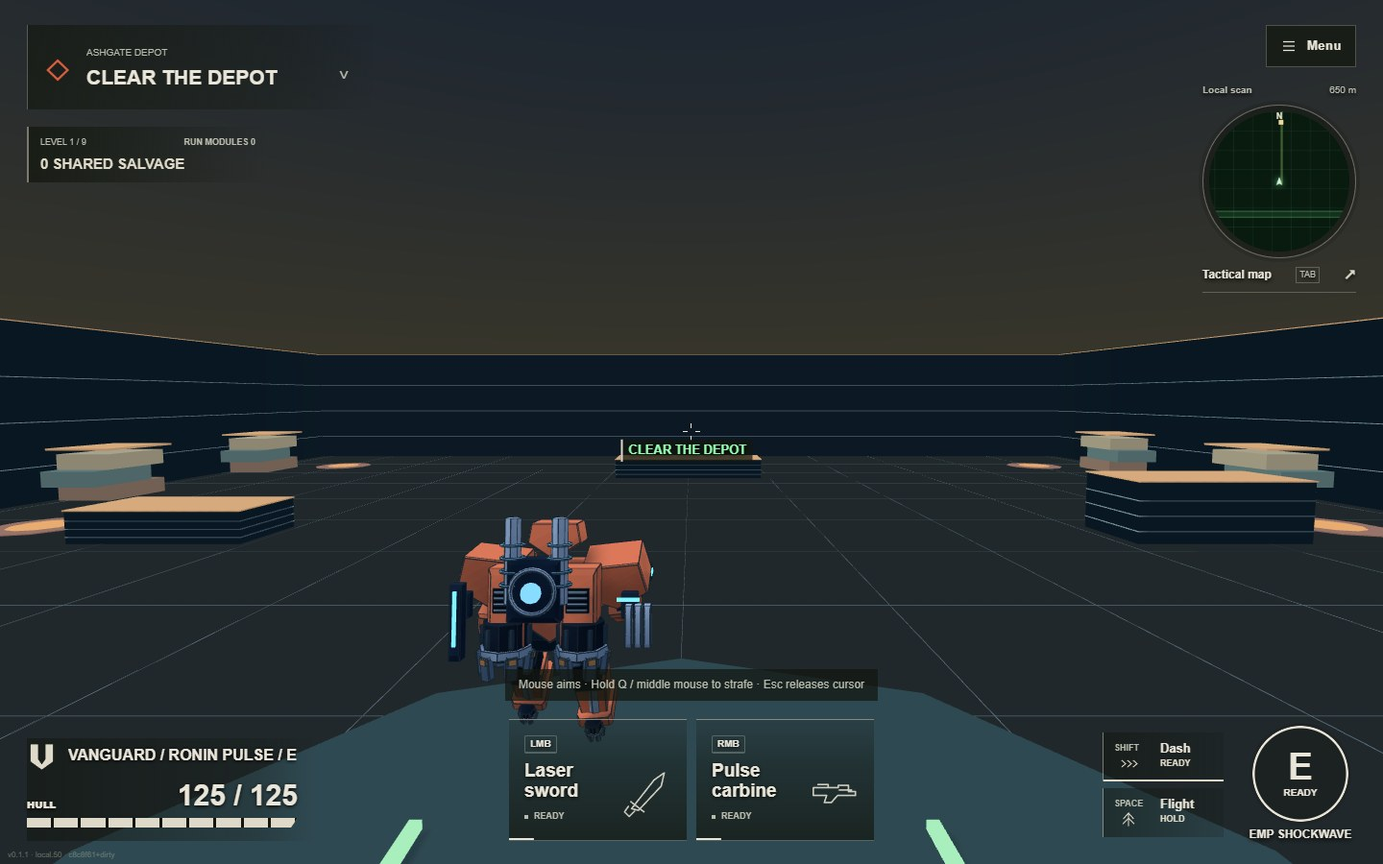
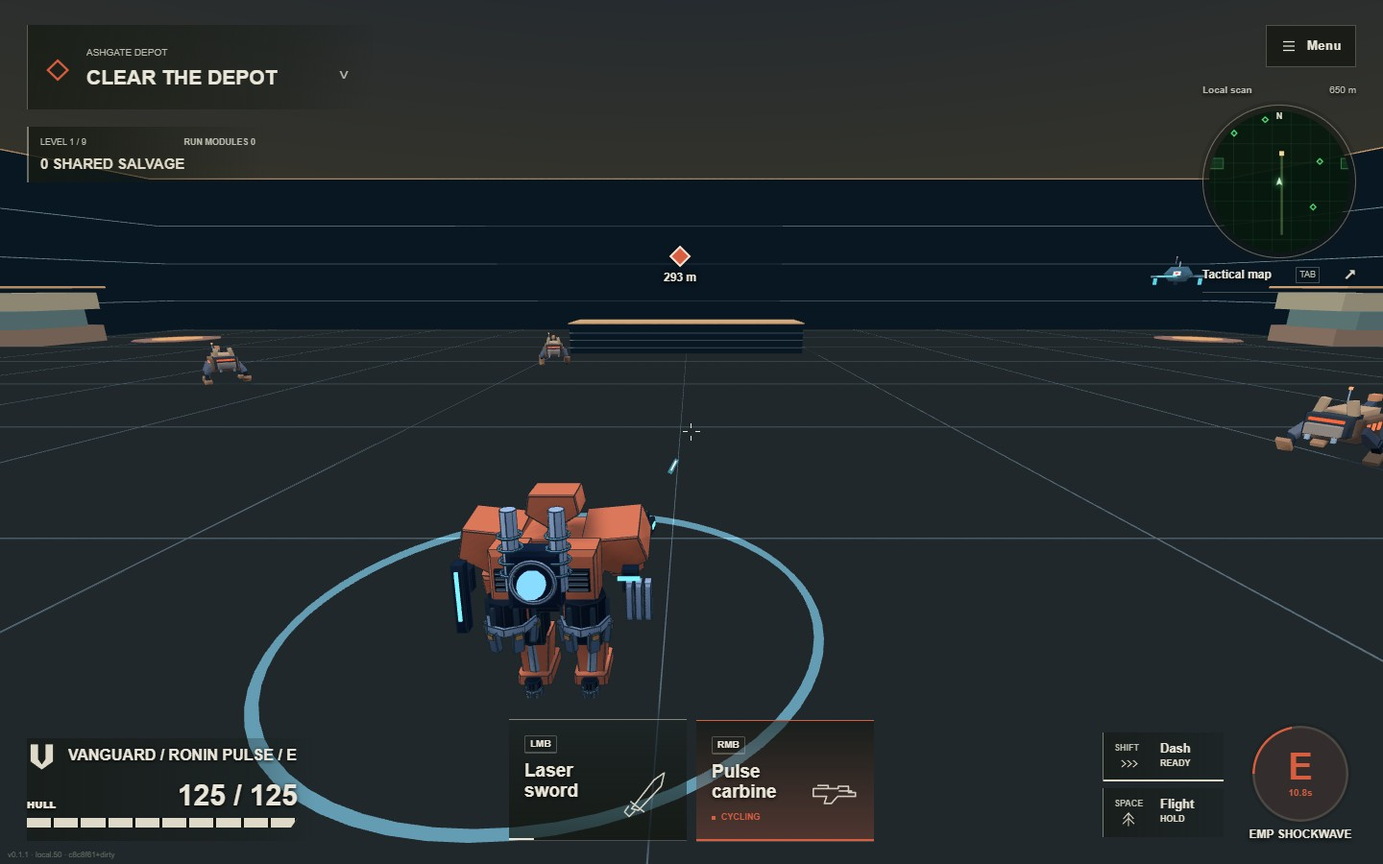
Reduce repeated mission details and clarify combat overlays

diff --git a/dist/app.js b/dist/app.js
@@ -187,9 +187,9 @@ function updateMotionReticle(p){
  $('#motionChargeHint').textContent=ready?'DYNAMO':hands.some(h=>h.motionCharge<1)?'MOVE TO RECHARGE':'RECOVERING';
  panel.setAttribute('aria-label',hands.map(h=>(h.index?'Right':'Left')+' Dynamo charge '+Math.round(h.motionCharge*100)+' percent').join('. '));
 }
-let hudAt=0;function updateHud(){destructionLab.update(world);const p=world.players.find(p=>p.id===localId);if(!p)return;sortieHud.update(world,p);$('#game').classList.toggle('boosting',!!p.boosting);$('#flightButton').classList.toggle('engaged',!!p.airborne);const task=taskStatus(world,p,view.yaw),objectives=objectiveStatus(world,p);const repeatedNotice=!!task.notice&&task.label.toLowerCase().includes(objectives.personal.toLowerCase());$('#taskBanner').hidden=!task.warning&&(!task.notice||repeatedNotice);$('#objectivesPanel').classList.toggle('objectives-duplicate',objectives.personal.trim().toLowerCase()===objectives.team.trim().toLowerCase());for(const[id,key]of[['personalObjective','personal'],['personalObjectiveDetail','personalDetail'],['teamObjective','team'],['teamObjectiveDetail','teamDetail']]){if($('#'+id).textContent!==objectives[key])$('#'+id).textContent=objectives[key];}$('#objectiveMode').textContent=world.mission.mode==='sandbox'?'TEST BAY':world.mission.mode==='trial'?'COMBAT TRIAL':world.operation?world.mission.name:world.siege?'PROTOTYPE 02':'MISSION';$('#teamProgress').hidden=objectives.progress===null;$('#teamProgressFill').style.width=(objectives.progress||0)+'%';if($('#levelLabel').textContent!==task.label)$('#levelLabel').textContent=task.label;if($('#objectiveText').textContent!==task.detail)$('#objectiveText').textContent=task.detail;$('#taskKind').textContent=task.warning?'! WARNING':task.notice?'MISSION UPDATE':'TASK / '+String(world.zoneIndex+1).padStart(2,'0');$('#taskBanner').classList.toggle('warning',!!task.warning);$('#taskBanner').classList.toggle('heavy-arrival',!!task.heavy);$('#progressBar').style.width=(world.mission.zones.length?world.cleared/world.mission.zones.length*100:0)+'%';$('#hudName').textContent=p.build.name;const hull=hullStatus(p,mechStats(p.build).hp);$('#hullHealth').dataset.state=hull.state;$('#hullValue').textContent=hull.current+' / '+hull.max;$('#hullFill').style.width=hull.percent+'%';$('#hullMeter').setAttribute('aria-valuenow',String(hull.percent));$('#hullCondition').textContent=hull.state==='offline'?'OFFLINE':hull.state==='critical'?'CRITICAL':'HULL';$('#game').classList.toggle('guarding',!!p.guarding);const selected=activeItem(p),special=specialFor(p),item=EQUIPMENT[selected];$('#abilityLabel').textContent=special?ABILITIES[special].name.toUpperCase():'NO SPECIAL';for(const kind of['dash']){const remaining=p[kind+'Cd']||0,active=p.moveKind===kind&&p.moveTime>0,ready=p.hp>0&&remaining<=0&&!(p.moveTime>0);$('#'+kind+'Cd').textContent=active?'ACTIVE':remaining>0?remaining.toFixed(1)+'s':p.moveTime>0?'WAIT':'READY';$('#'+kind+'Button').disabled=!ready;$('#'+kind+'Button').classList.toggle('active',active);$('#'+kind+'Button').setAttribute('aria-label',COMBAT_MOVES[kind].name+': '+(active?'active':ready?'ready':remaining>0?remaining.toFixed(1)+' seconds':'finish current move'));$('#'+kind+'Fill').style.width=Math.max(0,100*(1-remaining/COMBAT_MOVES[kind].cd))+'%';}const ultimate=ultimateStatus(p,ABILITIES[special]);$('#abilityCd').textContent=ultimate.counter;$('#abilityStatus').textContent=ultimate.detail;$('#abilityButton').dataset.state=ultimate.state;$('#abilityButton').style.setProperty('--charge',ultimate.percent+'%');$('#abilityButton').disabled=!ultimate.ready;$('#abilityButton').setAttribute('aria-label',`${ABILITIES[special]?.name||'Ultimate'}: ${ultimate.ready?'ready, press E':ultimate.detail+', '+ultimate.counter+' to recharge'}`);$('#ultimateFill').style.width=ultimate.percent+'%';$('#ultimateMeter').setAttribute('aria-valuenow',String(ultimate.percent));$('#abilityButton').classList.toggle('engaged',p.active>0);for(let i=0;i<2;i++){const hand=i?'right':'left',id=p.build.equipment[i],name=WEAPONS[id].name.split(' / ').at(-1),h=p.hands?.[i]||{},state=h.guarding?'BLOCKING':id==='guard'?'HOLD TO BLOCK':h.slamDiving?'DIVING':h.meleeTime>0?'SWINGING':h.railCharge>0?'CHARGE '+Math.round(h.railCharge*100)+'%':h.flame?'FLAME ACTIVE':h.beam?'BEAM ACTIVE':id==='rotary'&&(h.spin||0)>0?((h.spin||0)>=1?'STABILIZED':'SPIN '+Math.round((h.spin||0)*100)+'%'):id==='dynamo'&&(h.motionCharge||0)<1?'MOVE '+Math.floor((h.motionCharge||0)*100)+'%':h.shot>0?(id==='rail'?'RECOVERING':'CYCLING'):id==='rail'?'HOLD TO REPEAT':'READY';$('#'+hand+'HandName').textContent=name;$('#'+hand+'HandState').textContent=state;const handIcon=$('#'+hand+'HandIcon');if(handIcon&&handIcon.dataset.item!==id){handIcon.innerHTML=itemIcon('equip'+i,id,WEAPONS[id]);handIcon.dataset.item=id;}$('#'+hand+'HandButton').dataset.state=(h.guarding||h.meleeTime>0||h.shot>0||h.railCharge>0)?'active':['READY','HOLD TO BLOCK','HOLD TO REPEAT'].includes(state)?'ready':'charging';$('#'+hand+'HandButton').classList.toggle('active',!!h.guarding||h.meleeTime>0||h.shot>0||h.railCharge>0);$(i?'#activeEquipment':'#diagramMelee').textContent=name;}updateMotionReticle(p);$('#equipmentState').textContent='INDEPENDENT HAND CONTROLS';$('#zoomState').textContent=p.build.equipment.includes('rail')?'RAIL: CLICK / HOLD':'HOLD TO USE';$('#crosshair').classList.toggle('hit',world.time-p.hitTime<.12);$('#viewHint').hidden=matchMedia('(pointer:coarse)').matches||!view.strafing&&!mouseLook.paused&&view.locked&&world.time>9;$('#viewHint').textContent=mouseLook.paused?'AIM PAUSED · Click battlefield to resume':view.strafing?'STRAFE LOCK · Release Q / middle mouse to follow aim':'Mouse aims · Hold Q / middle mouse to strafe · Esc releases cursor';$('#damageVignette').style.opacity=world.mission.mode==='trial'||world.operation?Math.max(0,1-(world.time-(p.lastHurt??-10))/.3)*.45:0;$('#squadLinkState').textContent=world.players.length+' / 4';$('#game').style.setProperty('--squad-extra',Math.max(0,world.players.length-1)*14+'px');const squadMarkup=squadStatus(world.players,localId).filter(q=>!q.empty).map(q=>`<div class="squad-channel ${q.downed?'downed':''}"><span>0${q.channel}</span><b>${escape(q.name)}${q.self?' · YOU':''}</b><small>${q.status}</small></div>`).join('');if($('#squadHud').innerHTML!==squadMarkup)$('#squadHud').innerHTML=squadMarkup;}
+let hudAt=0;function updateHud(){destructionLab.update(world);const p=world.players.find(p=>p.id===localId);if(!p)return;sortieHud.update(world,p);$('#game').classList.toggle('boosting',!!p.boosting);$('#flightButton').classList.toggle('engaged',!!p.airborne);const task=taskStatus(world,p,view.yaw),objectives=objectiveStatus(world,p);const repeatedNotice=!!task.notice&&task.label.toLowerCase().includes(objectives.personal.toLowerCase());$('#taskBanner').hidden=!task.warning&&(!task.notice||repeatedNotice);$('#objectivesPanel').classList.toggle('objectives-duplicate',objectives.personal.trim().toLowerCase()===objectives.team.trim().toLowerCase());for(const[id,key]of[['personalObjective','personal'],['personalObjectiveDetail','personalDetail'],['teamObjective','team'],['teamObjectiveDetail','teamDetail']]){if($('#'+id).textContent!==objectives[key])$('#'+id).textContent=objectives[key];}$('#objectiveMode').textContent=world.mission.mode==='sandbox'?'TEST BAY':world.mission.mode==='trial'?'COMBAT TRIAL':world.operation?world.mission.name:world.siege?'PROTOTYPE 02':'MISSION';$('#teamProgress').hidden=objectives.progress===null;$('#teamProgressFill').style.width=(objectives.progress||0)+'%';if($('#levelLabel').textContent!==task.label)$('#levelLabel').textContent=task.label;if($('#objectiveText').textContent!==task.detail)$('#objectiveText').textContent=task.detail;$('#taskKind').textContent=task.warning?'! WARNING':task.notice?'MISSION UPDATE':'TASK / '+String(world.zoneIndex+1).padStart(2,'0');$('#taskBanner').classList.toggle('warning',!!task.warning);$('#taskBanner').classList.toggle('heavy-arrival',!!task.heavy);$('#progressBar').style.width=(world.mission.zones.length?world.cleared/world.mission.zones.length*100:0)+'%';$('#hudName').textContent=p.build.name;const hull=hullStatus(p,mechStats(p.build).hp);$('#hullHealth').dataset.state=hull.state;$('#hullValue').textContent=hull.current+' / '+hull.max;$('#hullFill').style.width=hull.percent+'%';$('#hullMeter').setAttribute('aria-valuenow',String(hull.percent));$('#hullCondition').textContent=hull.state==='offline'?'OFFLINE':hull.state==='critical'?'CRITICAL':'HULL';$('#game').classList.toggle('guarding',!!p.guarding);const selected=activeItem(p),special=specialFor(p),item=EQUIPMENT[selected];$('#abilityLabel').textContent=special?ABILITIES[special].name.toUpperCase():'NO SPECIAL';for(const kind of['dash']){const remaining=p[kind+'Cd']||0,active=p.moveKind===kind&&p.moveTime>0,ready=p.hp>0&&remaining<=0&&!(p.moveTime>0);$('#'+kind+'Cd').textContent=active?'ACTIVE':remaining>0?remaining.toFixed(1)+'s':p.moveTime>0?'WAIT':'READY';$('#'+kind+'Button').disabled=!ready;$('#'+kind+'Button').classList.toggle('active',active);$('#'+kind+'Button').setAttribute('aria-label',COMBAT_MOVES[kind].name+': '+(active?'active':ready?'ready':remaining>0?remaining.toFixed(1)+' seconds':'finish current move'));$('#'+kind+'Fill').style.width=Math.max(0,100*(1-remaining/COMBAT_MOVES[kind].cd))+'%';}const ultimate=ultimateStatus(p,ABILITIES[special]);$('#abilityCd').textContent=ultimate.counter;$('#abilityStatus').textContent=ultimate.detail;$('#abilityButton').dataset.state=ultimate.state;$('#abilityButton').style.setProperty('--charge',ultimate.percent+'%');$('#abilityButton').disabled=!ultimate.ready;$('#abilityButton').setAttribute('aria-label',`${ABILITIES[special]?.name||'Ultimate'}: ${ultimate.ready?'ready, press E':ultimate.detail+', '+ultimate.counter+' to recharge'}`);$('#ultimateFill').style.width=ultimate.percent+'%';$('#ultimateMeter').setAttribute('aria-valuenow',String(ultimate.percent));$('#abilityButton').classList.toggle('engaged',p.active>0);for(let i=0;i<2;i++){const hand=i?'right':'left',id=p.build.equipment[i],name=WEAPONS[id].name.split(' / ').at(-1),h=p.hands?.[i]||{},state=h.guarding?'BLOCKING':id==='guard'?'HOLD TO BLOCK':h.slamDiving?'DIVING':h.meleeTime>0?'SWINGING':h.railCharge>0?'CHARGE '+Math.round(h.railCharge*100)+'%':h.flame?'FLAME ACTIVE':h.beam?'BEAM ACTIVE':id==='rotary'&&(h.spin||0)>0?((h.spin||0)>=1?'STABILIZED':'SPIN '+Math.round((h.spin||0)*100)+'%'):id==='dynamo'&&(h.motionCharge||0)<1?'MOVE '+Math.floor((h.motionCharge||0)*100)+'%':h.shot>0?(id==='rail'?'RECOVERING':'CYCLING'):id==='rail'?'HOLD TO REPEAT':'READY';$('#'+hand+'HandName').textContent=name;$('#'+hand+'HandState').textContent=state;const handIcon=$('#'+hand+'HandIcon');if(handIcon&&handIcon.dataset.item!==id){handIcon.innerHTML=itemIcon('equip'+i,id,WEAPONS[id]);handIcon.dataset.item=id;}$('#'+hand+'HandButton').dataset.state=(h.guarding||h.meleeTime>0||h.shot>0||h.railCharge>0)?'active':['READY','HOLD TO BLOCK','HOLD TO REPEAT'].includes(state)?'ready':'charging';$('#'+hand+'HandButton').classList.toggle('active',!!h.guarding||h.meleeTime>0||h.shot>0||h.railCharge>0);$(i?'#activeEquipment':'#diagramMelee').textContent=name;}updateMotionReticle(p);$('#equipmentState').textContent='INDEPENDENT HAND CONTROLS';$('#zoomState').textContent=p.build.equipment.includes('rail')?'RAIL: CLICK / HOLD':'HOLD TO USE';$('#crosshair').classList.toggle('hit',world.time-p.hitTime<.12);$('#viewHint').hidden=!mouseLook.paused;$('#viewHint').textContent='Click to resume aiming';$('#damageVignette').style.opacity=world.mission.mode==='trial'||world.operation?Math.max(0,1-(world.time-(p.lastHurt??-10))/.3)*.45:0;$('#squadLinkState').textContent=world.players.length+' / 4';$('#game').style.setProperty('--squad-extra',Math.max(0,world.players.length-1)*14+'px');const squadMarkup=squadStatus(world.players,localId).filter(q=>!q.empty).map(q=>`<div class="squad-channel ${q.downed?'downed':''}"><span>0${q.channel}</span><b>${escape(q.name)}${q.self?' · YOU':''}</b><small>${q.status}</small></div>`).join('');if($('#squadHud').innerHTML!==squadMarkup)$('#squadHud').innerHTML=squadMarkup;}
 
-const labelNodes=new Map();function updateLabels(){const goal=world.mission.zones[world.zoneIndex]||world.mission.exit;const entries=[...(world.damageEvents||[]).filter(e=>e.kind!=='incoming').map(e=>({...e,id:'damage-'+e.id,z:e.z+(1-e.life)*28,offset:((e.id%5)-2)*19,name:String(e.amount)+(e.kind==='precision'?'!':''),color:e.kind==='melee'?'#a4f4ff':e.kind==='phaser'?'#9fffd0':e.kind==='plasma'?'#d7b6ff':'#ffe7a3',damage:true})), ...(world.teamCombos||[]).slice(-4).map(c=>({...c,id:'combo-'+c.id,z:c.z+65+(world.time-c.at)*35,name:c.label,combo:true,life:.7-(world.time-c.at)})),...((world.operation||world.siege)?(world.siege?destructionMarkers(world):operationMarkers(world,world.players.find(p=>p.id===localId))).sort((a,b)=>{const p=world.players.find(q=>q.id===localId);return Math.hypot(a.x-p.x,a.y-p.y)-Math.hypot(b.x-p.x,b.y-p.y);}).slice(0,3).map((v,i)=>({...v,id:'operation-'+i,color:'#aaffc5'})):['sandbox','trial'].includes(world.mission.mode)?[]:[{id:'waypoint',x:goal.x,y:goal.y,z:100,name:world.mission.zones[world.zoneIndex]?goal.name:'EXTRACTION',color:'#c8f6d6'}]),...world.players.filter(p=>p.id!==localId).map(p=>({...p,z:80+(p.altitude||0),name:p.name+(p.hp<=0?' / DOWN':''),color:p.build.color}))];const ids=new Set(entries.map(e=>e.id));for(const[id,node]of labelNodes)if(!ids.has(id)){node.remove();labelNodes.delete(id);}const occupied=[];for(const e of entries){let node=labelNodes.get(e.id);if(!node){node=document.createElement('div');node.className='world-label';$('#worldLabels').append(node);labelNodes.set(e.id,node);}const q=projectWorld(e.x,e.y,e.z);node.hidden=!q.visible;node.textContent=e.name;node.classList.toggle('damage-number',!!e.damage);node.classList.toggle('combo-label',!!e.combo);node.classList.toggle('heavy-hit',!!e.damage&&e.amount>=120);node.classList.toggle('precision-hit',e.kind==='precision');node.style.opacity=e.combo?Math.min(1,e.life*4):e.damage?Math.min(1,e.life*3):1;node.style.color=e.combo?(e.kind==='finish'?'#fff0b8':'#b6fbff'):e.damage?(e.kind==='precision'?'#fff1a6':e.kind==='burn'?'#ffb16e':e.kind==='overload'?'#dcb5ff':'#caffd5'):'#95ffb0';q.x+=e.offset||0;if(e.damage&&q.visible)occupied.push({x:q.x,y:q.y,width:node.offsetWidth,height:node.offsetHeight});if(!e.damage&&q.visible){const width=node.offsetWidth,height=node.offsetHeight;let attempts=0;while(occupied.some(r=>Math.abs(q.x-r.x)<(width+r.width)/2+8&&Math.abs(q.y-r.y)<Math.max(height,r.height)+6)&&attempts++<8)q.y-=height+8;occupied.push({x:q.x,y:q.y,width,height});}node.style.transform=`translate(${q.x}px,${q.y}px) translate(-50%,-100%) scale(${e.damage?1+Math.max(0,1-(1-e.life)/.15)*.55*impactLevel():1})`;}}
+const labelNodes=new Map();function updateLabels(){const player=world.players.find(p=>p.id===localId);if(!player)return;const personal=objectiveStatus(world,player).personal;const goal=world.mission.zones[world.zoneIndex]||world.mission.exit;const entries=[...(world.damageEvents||[]).filter(e=>e.kind!=='incoming').map(e=>({...e,id:'damage-'+e.id,z:e.z+(1-e.life)*28,offset:((e.id%5)-2)*19,name:String(e.amount)+(e.kind==='precision'?'!':''),color:e.kind==='melee'?'#a4f4ff':e.kind==='phaser'?'#9fffd0':e.kind==='plasma'?'#d7b6ff':'#ffe7a3',damage:true})), ...(world.teamCombos||[]).slice(-4).map(c=>({...c,id:'combo-'+c.id,z:c.z+65+(world.time-c.at)*35,name:c.label,combo:true,life:.7-(world.time-c.at)})),...((world.operation||world.siege)?(world.siege?destructionMarkers(world):operationMarkers(world,world.players.find(p=>p.id===localId))).sort((a,b)=>{const p=world.players.find(q=>q.id===localId);return Math.hypot(a.x-p.x,a.y-p.y)-Math.hypot(b.x-p.x,b.y-p.y);}).slice(0,3).map((v,i)=>({...v,id:'operation-'+i,waypoint:true,color:'#aaffc5'})):['sandbox','trial'].includes(world.mission.mode)?[]:[{id:'waypoint',x:goal.x,y:goal.y,z:100,name:world.mission.zones[world.zoneIndex]?goal.name:'EXTRACTION',color:'#c8f6d6'}]),...world.players.filter(p=>p.id!==localId).map(p=>({...p,z:80+(p.altitude||0),name:p.name+(p.hp<=0?' / DOWN':''),color:p.build.color}))];const ids=new Set(entries.map(e=>e.id));for(const[id,node]of labelNodes)if(!ids.has(id)){node.remove();labelNodes.delete(id);}const occupied=[];for(const e of entries){let node=labelNodes.get(e.id);if(!node){node=document.createElement('div');node.className='world-label';$('#worldLabels').append(node);labelNodes.set(e.id,node);}const q=projectWorld(e.x,e.y,e.z);node.hidden=!q.visible;const repeatingGoal=e.waypoint&&e.name.trim().toLowerCase()===personal.trim().toLowerCase();node.textContent=repeatingGoal?Math.round(Math.hypot(e.x-player.x,e.y-player.y))+' m':e.name;node.classList.toggle('target-marker',repeatingGoal);node.classList.toggle('damage-number',!!e.damage);node.classList.toggle('combo-label',!!e.combo);node.classList.toggle('heavy-hit',!!e.damage&&e.amount>=120);node.classList.toggle('precision-hit',e.kind==='precision');node.style.opacity=e.combo?Math.min(1,e.life*4):e.damage?Math.min(1,e.life*3):1;node.style.color=e.combo?(e.kind==='finish'?'#fff0b8':'#b6fbff'):e.damage?(e.kind==='precision'?'#fff1a6':e.kind==='burn'?'#ffb16e':e.kind==='overload'?'#dcb5ff':'#caffd5'):'#95ffb0';q.x+=e.offset||0;if(e.damage&&q.visible)occupied.push({x:q.x,y:q.y,width:node.offsetWidth,height:node.offsetHeight});if(!e.damage&&q.visible){const width=node.offsetWidth,height=node.offsetHeight;let attempts=0;while(occupied.some(r=>Math.abs(q.x-r.x)<(width+r.width)/2+8&&Math.abs(q.y-r.y)<Math.max(height,r.height)+6)&&attempts++<8)q.y-=height+8;occupied.push({x:q.x,y:q.y,width,height});}node.style.transform=`translate(${q.x}px,${q.y}px) translate(-50%,-100%) scale(${e.damage?1+Math.max(0,1-(1-e.life)/.15)*.55*impactLevel():1})`;}}
 function drawRadar(){const p=world.players.find(p=>p.id===localId);if(p)drawNearbyMap($('#radar'),world,p,view.yaw);}
 function frame(t){const homeDelta=homeTick?Math.min(.05,(t-homeTick)/1000):0;homeTick=t;try{if(playing&&world){drawBattle3D($('#battle'),world,localId,t/1000);updateSound(world,localId);if(t-hudAt>65){updateHud();updateLabels();drawRadar();if(!$('#levelMapPanel').hidden)drawMap($('#levelMap'),world.mission,world,localId);hudAt=t;}}else if(document.body.dataset.screen==='home'){updatePreviewSound(previewBuild(),t/1000,false);updateBoostSound(0);if(!homePaused)homeTime=reduced?2:homeTime+homeDelta;drawHomeBattle3D($('#mechPreview'),build,homeTime);}else if(document.body.dataset.screen==='garage'){updatePreviewSound(previewBuild(),t/1000,equipmentPreview);updateBoostSound(thrusterPreview?.8:0,build.parts.booster);drawPreview3D($('#mechPreview'),previewBuild(),reduced?0:t/1000,thrusterPreview,equipmentPreview);}else{updateBoostSound(0);updatePreviewSound(previewBuild(),t/1000,false);}reportCapture.frame(playing?$('#battle'):['home','garage'].includes(document.body.dataset.screen)?$('#mechPreview'):null);}catch(e){console.error(e);toast('Graphics interrupted. Return to the workshop and reload.');}requestAnimationFrame(frame);}
 updateBuild();updateSquad();updateMission();requestAnimationFrame(frame);window.addEventListener('resize',()=>{if(!playing)drawMap($('#missionMap'),m);});const invite=new URLSearchParams(location.search).get('room');if(invite&&/^[A-Z2-9]{6}$/i.test(invite))showJoin(invite.toUpperCase());

diff --git a/dist/campaign-view.js b/dist/campaign-view.js
@@ -54,7 +54,7 @@ export function createCampaignView(root,actions){
   const refits=`${heading('Field refits','Installed modules last for this campaign.')}<div class="refit-ledger"><strong>${profile.credits}<span>choice${profile.credits===1?'':'s'} available</span></strong><span>${profile.modules.length} / 18 modules installed</span></div>${offers.length?`<div class="command-upgrades">${offers.map((id,i)=>`<button data-refit="${id}" aria-busy="${pending?.id===id}" ${pending?'disabled':''}><div class="requisition-heading">${serviceSymbol(FIELD_MODULES[id].role)}</div><strong>${FIELD_MODULES[id].name}</strong><span>${FIELD_MODULES[id].detail}</span><b>${pending?'Installing…':'Install module'} <span>${profile.modules.filter(v=>v===id).length+1}/3</span></b></button>`).join('')}</div>`:`<div class="command-empty"><span class="empty-symbol">＋</span><h3>No refit choices available.</h3><p>${active?'Secure the next mission to earn a choice. Extra shared salvage can earn a second.':'Start a new campaign to build another combination.'}</p>${active?'<button class="command-button" data-tab="operations">Review the next mission <span>→</span></button>':''}</div>`}<div class="installed-modules"><h3>Installed modules</h3>${[...new Set(profile.modules)].map(id=>`<div><strong>${FIELD_MODULES[id].name}</strong><span>${FIELD_MODULES[id].detail}</span><b>×${profile.modules.filter(v=>v===id).length}</b></div>`).join('')||'<p>No modules installed yet.</p>'}</div>`;
   const contracts=`${heading('Contracts','Choose the opposition for your squad. Higher pressure earns more salvage.')}<div class="command-contracts">${CONTRACTS.map((c,i)=>`<button data-contract="${c.id}" aria-pressed="${campaign.contract===c.id}" ${!canChoose||!active?'disabled':''}><span class="contract-number">${serviceSymbol(['SURVIVAL','ASSAULT','BREACH'][i])}<i>${'▰'.repeat(i+1)}${'▱'.repeat(2-i)}</i></span><strong>${c.name}</strong><span>${c.id==='frontline'?'Balanced encounters. Room to regroup between reinforcement waves.':c.id==='overrun'?'Relentless reinforcements. Shorter breaks between every enemy wave.':'Armored opposition. More heavy enemies in every reinforcement wave.'}</span><b>${c.reward===1?'Standard salvage':'+'+Math.round((c.reward-1)*100)+'% salvage'}</b><em>${campaign.contract===c.id?'✓ Selected':'Select contract →'}</em></button>`).join('')}</div><p class="host-note">${canChoose?'Changing the contract clears squad readiness.':'The squad host chooses the contract.'}</p><div class="contract-intel"><h3>Current battlefield pressure</h3><dl><div><dt>Enemy armor</dt><dd>${tuning.health.toFixed(2)}×</dd></div><div><dt>Attack pressure</dt><dd>${tuning.damage.toFixed(2)}×</dd></div><div><dt>Best extraction</dt><dd>${record?formatTime(record):'—'}</dd></div></dl></div>`;
   const report=campaign.lastReport?debriefMarkup(campaign.lastReport,true):`${heading('Combat record','Mission results, salvage and squad performance are filed here after deployment.')}<div class="command-empty"><span class="empty-symbol">↗</span><h3>No sorties recorded.</h3><p>The front is waiting. Prepare your machine and make the first drop.</p><button class="command-button" data-tab="operations">Review the mission <span>→</span></button></div>`;
-  root.innerHTML=`<header class="command-heading"><div><h1>The Cinder Front<span>${room?'Co-op':'Solo'}</span></h1></div><div class="command-progress"><span><b>${Math.min(9,campaign.level)}</b> / 9 secured</span><div aria-hidden="true">${MISSIONS.map((_,i)=>`<i class="${i<campaign.level?'done':i===campaign.level&&active?'next':''}"></i>`).join('')}</div></div></header><nav class="command-tabs" role="tablist" aria-label="Campaign command sections">${TABS.map(([id,label],i)=>`<button type="button" role="tab" id="command-tab-${id}" aria-controls="command-panel" aria-selected="${tab===id}" tabindex="${tab===id?0:-1}" data-tab="${id}">${label}${id==='refits'&&profile.credits?`<b>${profile.credits}</b>`:id==='report'&&campaign.lastReport?'<i></i>':''}</button>`).join('')}</nav>${!active?`<div class="command-result" role="status"><strong>${campaign.runState==='won'?'Campaign complete':'Run ended'}</strong><span>${campaign.runState==='won'?'The Crown Engine has fallen. Your squad secured the front.':'Regroup, rebuild and return to the front.'}</span>${canChoose?'<button data-action="newRun">Start a new run ＋</button>':''}</div>`:campaign.lastResult==='victory'&&profile.credits?`<button class="earned-upgrade" data-tab="refits"><span>＋ ${profile.credits} upgrade choice${profile.credits===1?'':'s'} ready</span> Refit before your next drop <b>→</b></button>`:''}<div class="campaign-command-grid"><section id="command-panel" class="command-panel" role="tabpanel" aria-labelledby="command-tab-${tab}" tabindex="0">${({operations,loadout,refits,contracts,report})[tab]}</section><aside class="launch-dock" aria-label="Deployment controls"><div class="dock-destination"><strong>${active?escape(current.name):campaign.runState==='won'?'Front secured.':'Run ended.'}</strong><span>${active?'Act '+current.act+' · '+current.kind+' · ~'+current.minutes+' min':'Your saved mechs are ready for the next run.'}</span></div><div class="dock-setup"><button data-tab="loadout"><span>Machine<strong>${escape(build.name)}</strong></span><b>↗</b></button><div><span>Insertion<strong>${escape(landing?.name||'Central drop')}</strong></span><span>Contract<strong>${escape(contract?.name||'Frontline')}</strong></span></div></div><div class="dock-squad"><div class="dock-squad-title"><h3>Squad</h3><span>${members.length} / 4 pilots</span></div>${members.map((p,i)=>`<div class="dock-pilot ${p.ready||!room?'ready':''}"><span class="pilot-mark">${String(i+1).padStart(2,'0')}</span><div><strong>${escape(p.name)}${p.id===localId?'<small>You</small>':''}</strong><span>${room?p.ready?'Ready to deploy':'Preparing loadout':'Ready for solo drop'}</span></div><b>${p.ready||!room?'✓':'○'}</b></div>`).join('')}<div class="dock-connect">${room?`<span class="room-code">${escape(room)} / ${isHost?'Host':'Guest'}</span><button data-action="invite">Invite ＋</button><button data-action="leave" aria-label="Leave squad">Leave</button>`:`<button data-action="host" ${connecting?'disabled':''}>Invite friends <span>＋</span></button><button data-action="join" ${connecting?'disabled':''}>Join squad ↗</button>`}</div></div><div class="dock-launch">${!valid?`<p class="dock-error" role="status">${escape(stats.issues.join(' '))}<button data-action="workshop">Fix in workshop ↗</button></p>`:''}${room?`<button class="dock-ready" data-action="ready" ${connecting||!valid||!active?'disabled':''}>${self.ready?'✓ Ready / Undo':'Mark ready ✓'}</button>`:''}<button class="deploy-command" data-action="deploy" ${connecting||!active||!valid||room&&(!isHost||!allReady)?'disabled':''}><span>${active?room?(isHost?'Deploy squad':'Awaiting host'):'Deploy':'Run finished'}<small>${active?escape(current.name):'Return to the front with a new campaign'}</small></span><b>↗</b></button><p class="dock-status" role="status">${connecting?'Connecting to the squad…':room?`${members.filter(p=>p.ready).length}/${members.length} pilots ready. ${isHost?'Everyone must be ready to deploy.':'Your host launches the mission.'}`:'Solo is ready. Up to 3 friends can join.'}</p></div></aside></div><footer class="command-footer"><button data-action="legacy">Classic operation ↗</button><span>Campaign advances in order. Practice missions award no upgrades.</span>${canChoose?'<button data-action="newRun">New run ＋</button>':''}</footer>`;
+  root.innerHTML=`<header class="command-heading"><div><h1>The Cinder Front<span>${room?'Co-op':'Solo'}</span></h1></div><div class="command-progress"><span><b>${Math.min(9,campaign.level)}</b> / 9 secured</span><div aria-hidden="true">${MISSIONS.map((_,i)=>`<i class="${i<campaign.level?'done':i===campaign.level&&active?'next':''}"></i>`).join('')}</div></div></header><nav class="command-tabs" role="tablist" aria-label="Campaign command sections">${TABS.map(([id,label],i)=>`<button type="button" role="tab" id="command-tab-${id}" aria-controls="command-panel" aria-selected="${tab===id}" tabindex="${tab===id?0:-1}" data-tab="${id}">${label}${id==='refits'&&profile.credits?`<b>${profile.credits}</b>`:id==='report'&&campaign.lastReport?'<i></i>':''}</button>`).join('')}</nav>${!active?`<div class="command-result" role="status"><strong>${campaign.runState==='won'?'Campaign complete':'Run ended'}</strong><span>${campaign.runState==='won'?'The Crown Engine has fallen. Your squad secured the front.':'Regroup, rebuild and return to the front.'}</span>${canChoose?'<button data-action="newRun">Start a new run ＋</button>':''}</div>`:campaign.lastResult==='victory'&&profile.credits?`<button class="earned-upgrade" data-tab="refits"><span>＋ ${profile.credits} upgrade choice${profile.credits===1?'':'s'} ready</span> Refit before your next drop <b>→</b></button>`:''}<div class="campaign-command-grid"><section id="command-panel" class="command-panel" role="tabpanel" aria-labelledby="command-tab-${tab}" tabindex="0">${({operations,loadout,refits,contracts,report})[tab]}</section><aside class="launch-dock" aria-label="Deployment controls"><div class="dock-setup"><button data-tab="loadout"><span>Machine<strong>${escape(build.name)}</strong></span><b>↗</b></button><div><span>Insertion<strong>${escape(landing?.name||'Central drop')}</strong></span><span>Contract<strong>${escape(contract?.name||'Frontline')}</strong></span></div></div><div class="dock-squad"><div class="dock-squad-title"><h3>Squad</h3><span>${members.length} / 4 pilots</span></div>${members.map((p,i)=>`<div class="dock-pilot ${p.ready||!room?'ready':''}"><span class="pilot-mark">${String(i+1).padStart(2,'0')}</span><div><strong>${escape(p.name)}${p.id===localId?'<small>You</small>':''}</strong><span>${room?p.ready?'Ready':'Preparing':'Ready'}</span></div><b>${p.ready||!room?'✓':'○'}</b></div>`).join('')}<div class="dock-connect">${room?`<span class="room-code">${escape(room)} / ${isHost?'Host':'Guest'}</span><button data-action="invite">Invite ＋</button><button data-action="leave" aria-label="Leave squad">Leave</button>`:`<button data-action="host" ${connecting?'disabled':''}>Invite friends <span>＋</span></button><button data-action="join" ${connecting?'disabled':''}>Join squad ↗</button>`}</div></div><div class="dock-launch">${!valid?`<p class="dock-error" role="status">${escape(stats.issues.join(' '))}<button data-action="workshop">Fix in workshop ↗</button></p>`:''}${room?`<button class="dock-ready" data-action="ready" ${connecting||!valid||!active?'disabled':''}>${self.ready?'✓ Ready / Undo':'Mark ready ✓'}</button>`:''}<button class="deploy-command" data-action="deploy" ${connecting||!active||!valid||room&&(!isHost||!allReady)?'disabled':''}><span>${active?room?(isHost?'Deploy squad':'Awaiting host'):'Deploy':'Run finished'}<small>${active?escape(current.name):'Return to the front with a new campaign'}</small></span><b>↗</b></button><p class="dock-status" role="status">${connecting?'Connecting to the squad…':room?`${members.filter(p=>p.ready).length}/${members.length} pilots ready. ${isHost?'Everyone must be ready to deploy.':'Your host launches the mission.'}`:''}</p></div></aside></div><footer class="command-footer"><button data-action="legacy">Classic operation ↗</button><span>Campaign advances in order. Practice missions award no upgrades.</span>${canChoose?'<button data-action="newRun">New run ＋</button>':''}</footer>`;
   for(const notice of root.querySelectorAll(':scope > .earned-upgrade,:scope > .command-result')){if(tab==='refits'&&notice.classList.contains('earned-upgrade'))notice.remove();else root.querySelector('#command-panel').prepend(notice);}
   if(focusData)root.querySelector('[data-'+focusData[0]+'="'+focusData[1]+'"]')?.focus({preventScroll:true});
   if(focusId)root.querySelector('#'+focusId)?.focus({preventScroll:true});

diff --git a/dist/campaign-ux.css b/dist/campaign-ux.css
@@ -50,3 +50,8 @@ body[data-screen=campaign] .campaign-screen{width:100%;max-width:1800px;padding:
 @media(min-width:701px) and (max-height:550px){body[data-screen=campaign] .campaign-screen{padding-top:8px}.command-heading{display:none}.command-tabs{margin-bottom:12px;gap:27px}.command-tabs>[role=tab]{min-height:38px;padding-bottom:10px}.campaign-command-grid{grid-template-columns:minmax(0,1fr)}.operation-theatre{height:290px;min-height:290px}.operation-order{padding:17px 20px;width:43%;height:100%}.operation-heading{gap:12px;margin-bottom:10px}.order-number{font-size:31px}.mission-context{font-size:13px;margin-bottom:2px}.operation-state{font-size:12px}.operation-order h2{font-size:28px;margin-bottom:13px}.operation-summary{font-size:14px;line-height:1.65}.operation-map{top:0;left:38%;right:-8px}.order-facts{bottom:16px;left:20px;right:20px;padding-top:10px}.order-facts dt{font-size:11px}.order-facts dd{font-size:22px}.launch-dock{display:contents}.dock-destination{display:none}.dock-launch{padding-block:8px}.deploy-command{min-height:60px}.command-panel-heading{padding-top:0}.command-contracts{grid-template-columns:repeat(3,minmax(0,1fr));gap:25px}.command-contracts>button{display:flex;padding:20px 0;gap:14px}.contract-number{display:flex;flex-direction:row;align-items:center;gap:10px}.contract-number .service-symbol{width:45px;height:45px}.command-contracts strong{font-size:24px}}
 /* Filled, outlined and checked states communicate before their captions do. */
 .command-tabs>[aria-selected=true]{background:#d7c3970b;box-shadow:inset 0 -2px #c65039}.route-stop:not(.current):not(.complete)>span{border-style:dashed;background:transparent;color:#a9a189}.route-stop.complete>span{background:#7d80642e;border-style:solid;color:#d3d3ad}.route-stop.current>span{background:#b74731;border-style:solid;border-color:#e79a73;color:#fff0cd;clip-path:polygon(0 0,80% 0,100% 20%,100% 100%,0 100%)}.route-stop[aria-pressed=true]>span{outline:2px solid #e4d7b4;outline-offset:4px;transform:none;clip-path:none;background:#d0bea0;color:#25281f;border-style:solid;border-color:#e7d7b4}.route-stop.current[aria-pressed=true]>span{background:#b74731;color:#fff0cd;border-color:#e79a73}.command-contracts>button[aria-pressed=true]{border-top:4px solid #c65039;padding-top:22px}.command-contracts>button[aria-pressed=true]:after{content:'✓';display:grid;place-items:center;width:28px;height:28px;background:#c65039;color:#ffedc9;border:3px solid #1a1d16;border-radius:50%;font:700 17px var(--ui);position:absolute;right:12px;top:-16px}.installed-modules strong:before{content:'✓';display:inline-grid;place-items:center;width:20px;height:20px;border:1px solid #b1b68c;color:#d3d6ac;margin-right:8px;font:700 13px var(--ui);vertical-align:middle}.command-upgrades>button[aria-busy=true]:before{content:'';width:24px;height:24px;border:2px solid #9c8c69;border-top-color:#8c3d25;border-radius:50%;position:absolute;top:37px;right:33px;animation:refit-install .7s linear infinite}.command-upgrades>button[aria-busy=true] .service-symbol{opacity:.2}@keyframes refit-install{to{transform:rotate(360deg)}}@media(prefers-reduced-motion:reduce){.command-upgrades>button[aria-busy=true]:before{animation:none;border-style:dashed}}
+/* Selection uses the same paper plate as the hangar; the vermilion corner still marks the next deployment. */
+.operation-route .route-stop[aria-pressed=true]>span,.operation-route .route-stop.current[aria-pressed=true]>span{position:relative;background:var(--paper,#ded9c8);border-color:var(--paper,#ded9c8);color:#24291f;outline-color:var(--paper,#ded9c8)}.route-stop.current[aria-pressed=true]>span:after{content:'';position:absolute;right:0;bottom:0;width:9px;height:9px;background:var(--orange,#d95e3f);clip-path:polygon(100% 0,100% 100%,0 100%)}
+.dock-setup{border-top:0;padding-top:0}.dock-setup span,.dock-setup strong,.dock-setup>div strong,.dock-squad-title>span,.dock-pilot strong,.dock-pilot>div>span,.dock-pilot strong small,.dock-connect>button,.dock-connect .room-code,.dock-status,.dock-ready,.dock-error,.dock-error button,.deploy-command small{font-size:14px}.dock-pilot strong{flex-wrap:wrap;gap:2px 7px}.dock-pilot>div>span{margin-top:3px}.dock-connect>button{min-height:44px}.dock-status{line-height:1.5}.dock-status:empty{display:none}.dock-error button{min-height:44px}.dock-connect{gap:6px 14px}.dock-squad-title>span{white-space:nowrap}.deploy-command small{line-height:1.4}
+@media(max-width:700px){.dock-setup{padding-top:18px}.dock-launch{padding-bottom:11px}.dock-launch:has(.dock-ready){grid-template-columns:100px minmax(0,1fr)}.dock-launch:has(.dock-ready) .dock-ready{font-size:14px}.dock-launch:has(.dock-ready) .deploy-command>span{font-size:18px}.dock-launch:has(.dock-ready) .deploy-command small{font-size:14px}}
+@media(min-width:1001px) and (max-height:800px){.launch-dock{height:calc(100svh - 270px);min-height:390px}}

diff --git a/dist/combat-ux.css b/dist/combat-ux.css
@@ -204,3 +204,8 @@ body:has(#game:not([hidden])) #toast.show{pointer-events:auto}#game #touchFire,#
 #game #loadoutPanel .combat-slots button>b{color:var(--hud-muted)}
 #game #loadoutPanel .combat-slots button.active>b{color:var(--hud-amber)}
 #game .hull-identity,#game .hull-heading,#game .hand-name,#game .hand-binding,#game .ultimate-heading{text-shadow:0 1px 4px #000}
+/* Objective prose belongs in the HUD. The world marker only locates it. */
+#game .world-label.target-marker{display:flex;flex-direction:column;align-items:center;gap:7px;padding:4px;background:none;border:0;box-shadow:none;color:var(--hud-ink)!important;font:600 12px/1.2 Arial,Helvetica,sans-serif;text-shadow:0 1px 5px #000,0 0 8px #000}
+#game .world-label.target-marker:before{content:'';display:block;width:12px;height:12px;border:2px solid var(--hud-ink);background:var(--hud-amber);transform:rotate(45deg);box-shadow:0 1px 5px #0008}
+#game #viewHint{left:50%;bottom:auto;top:56%;transform:translate(-50%,-50%);font:14px/1.4 Arial,Helvetica,sans-serif;padding:9px 14px;border:1px solid var(--hud-line);background:#151a12eb;color:var(--hud-ink)}
+#game #loadoutPanel .combat-slots button[data-state=ready]>b{visibility:hidden}

diff --git a/dist/hangar-ui.css b/dist/hangar-ui.css
@@ -68,6 +68,8 @@ body[data-screen=home] .home-choice{padding-left:16px;min-height:50px}
 .topbar>.pilot{margin-left:auto}
 dialog h2,.handbook-content h3{font-size:30px;letter-spacing:-.02em}
 .overline,.eyebrow{display:none!important}
+.rail-button b{font-size:13px}.rail-button>span svg{width:19px;height:19px}
+.menu-input-hint{font-size:10px;gap:8px}.menu-input-hint kbd{font-size:11px;min-width:21px;padding:4px}
 @media(max-width:700px){body[data-screen=home] .home-menu h1{font-size:48px}.title-insignia{left:0;top:-44px;width:21px;height:28px}.title-lockup{margin-bottom:30px}.home-choice>strong{font-size:19px}.home-selection-note p{font-size:13px}.home-machine-caption{display:none}}
 @media(min-width:701px) and (max-height:750px){.title-lockup{margin-bottom:28px}body[data-screen=home] .home-menu h1{font-size:68px}.home-choice>strong{font-size:20px}}
 @media(min-width:701px) and (max-height:510px){body[data-screen=home] .home-menu h1{font-size:44px}.title-lockup{margin-bottom:18px}.title-insignia{left:-30px;top:5px;width:18px;height:23px}body[data-screen=home] .home-choice{min-height:36px;padding-block:6px}.home-choice>strong{font-size:17px}.home-selection-note{display:none}}
